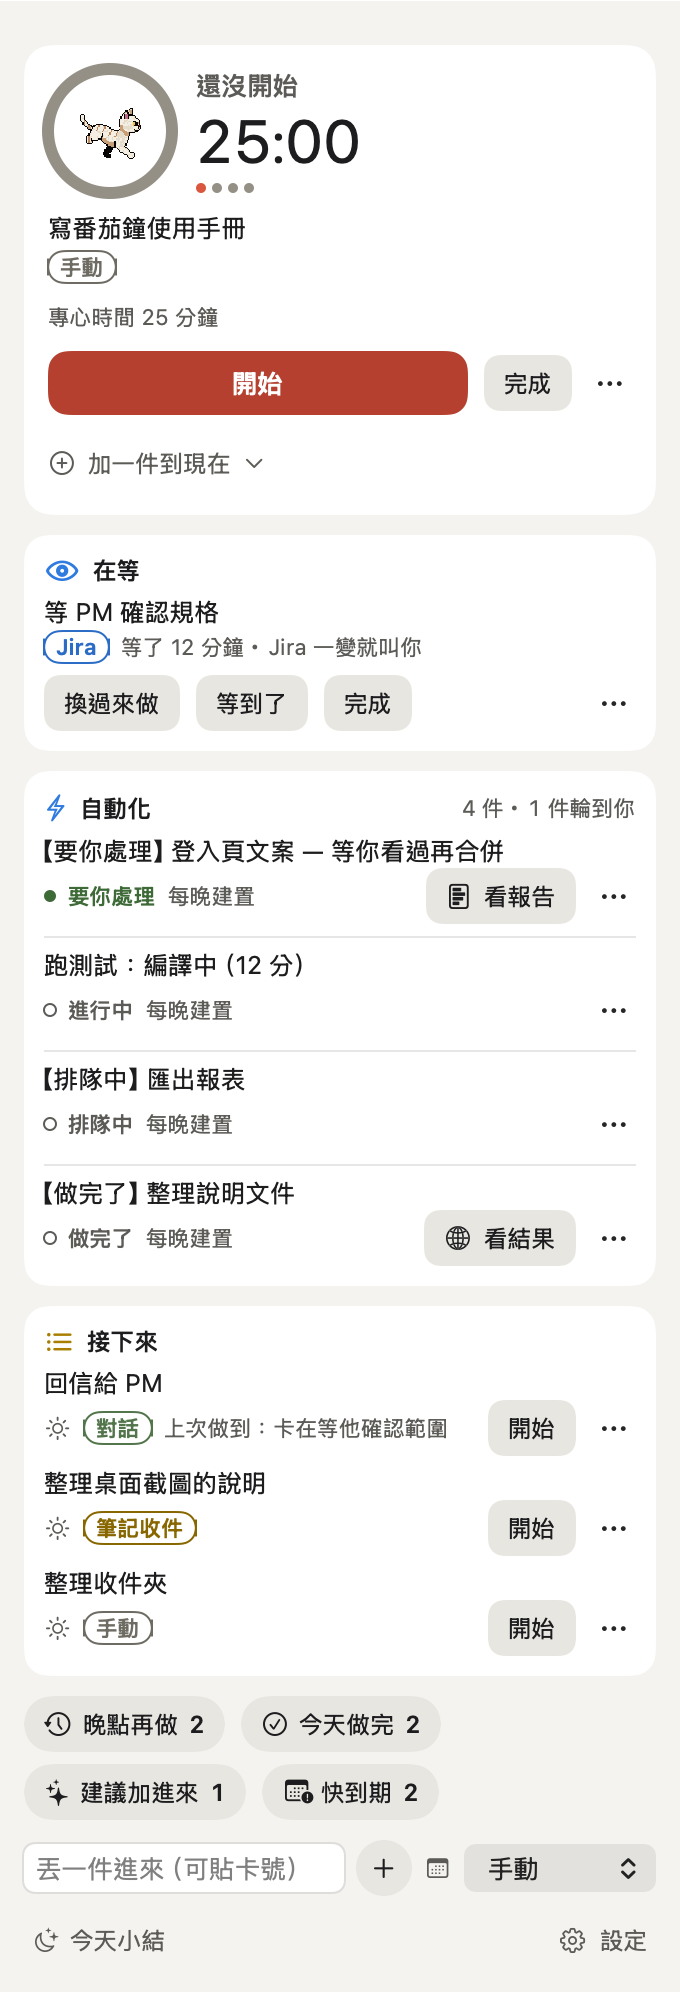
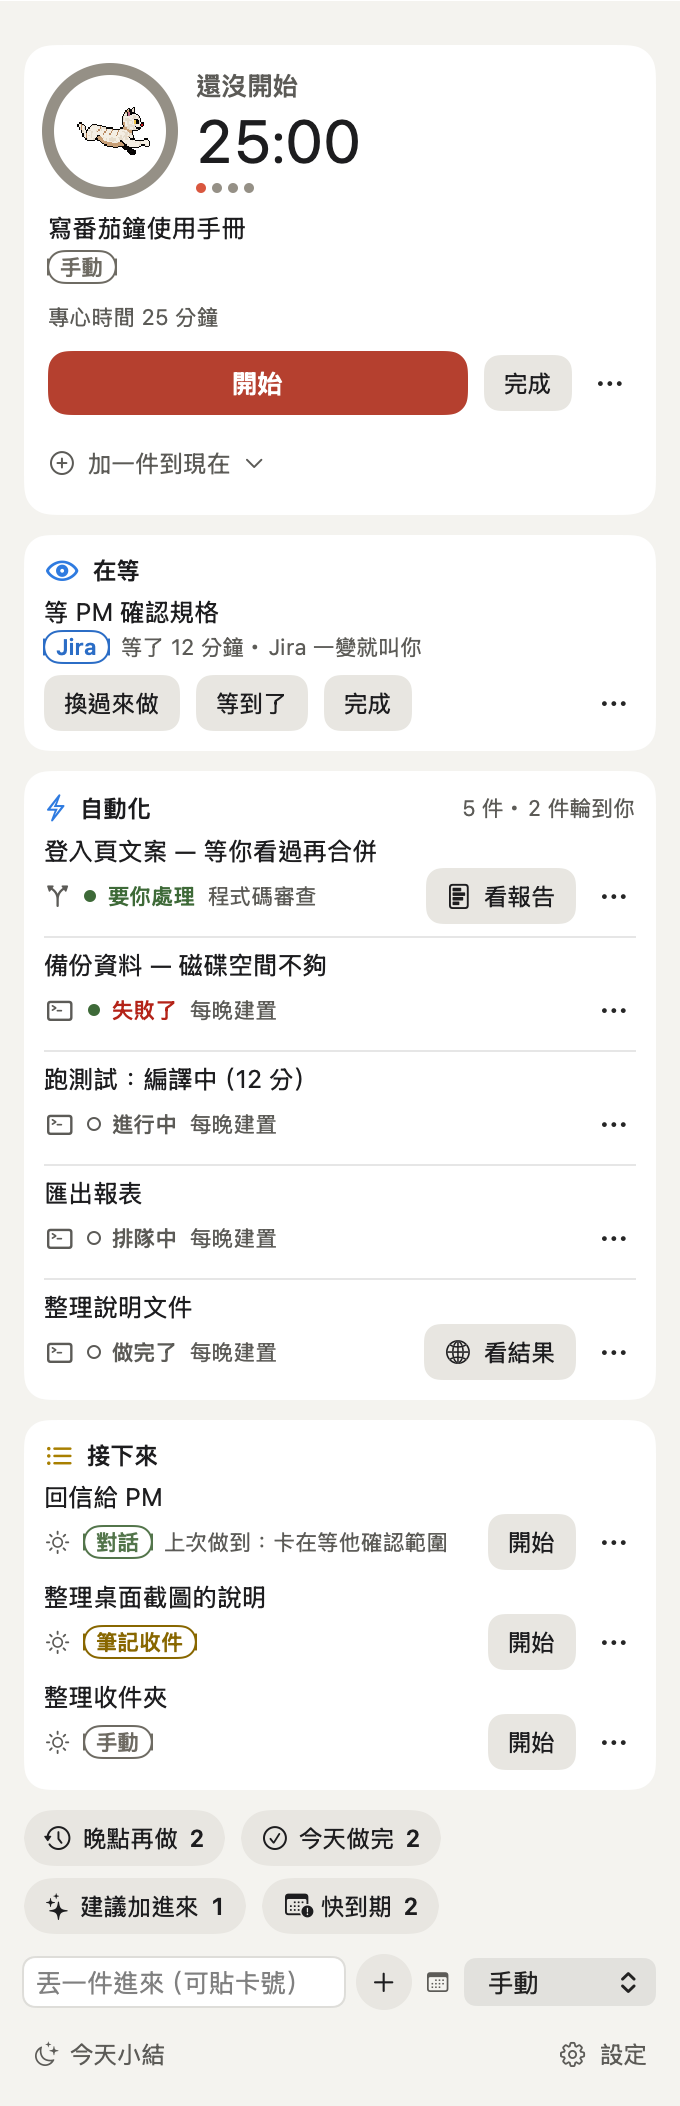
介紹網頁：自動化截圖換成 0.6.19（每件前面有來源小圖示）

diff --git a/docs/index.html b/docs/index.html
@@ -177,7 +177,7 @@ footer a{color:var(--muted)}
         <p>「自動化」那一區列出每件背景工作在哪一步、跑了幾分鐘。只有停下來等你的那件會變成「要你處理」並跳通知，還在跑的只列著，不吵你。</p>
         <p class="ver">要你的腳本或 AI 把狀態寫成一份小檔案，FocusCat 去讀。</p>
       </div>
-      <div class="shot crop" style="--ar:680/520;--y:113%"><img src="img/focuscat-panel-automation-light.png" alt="自動化：要你處理一件、編譯中一件、排隊中一件、做完一件"></div>
+      <div class="shot crop" style="--ar:680/640;--y:113%"><img src="img/focuscat-panel-automation-light.png" alt="自動化：要你處理一件、失敗一件、編譯中一件、排隊中一件、做完一件，每件前面有來源小圖示"></div>
     </div>
 
 
